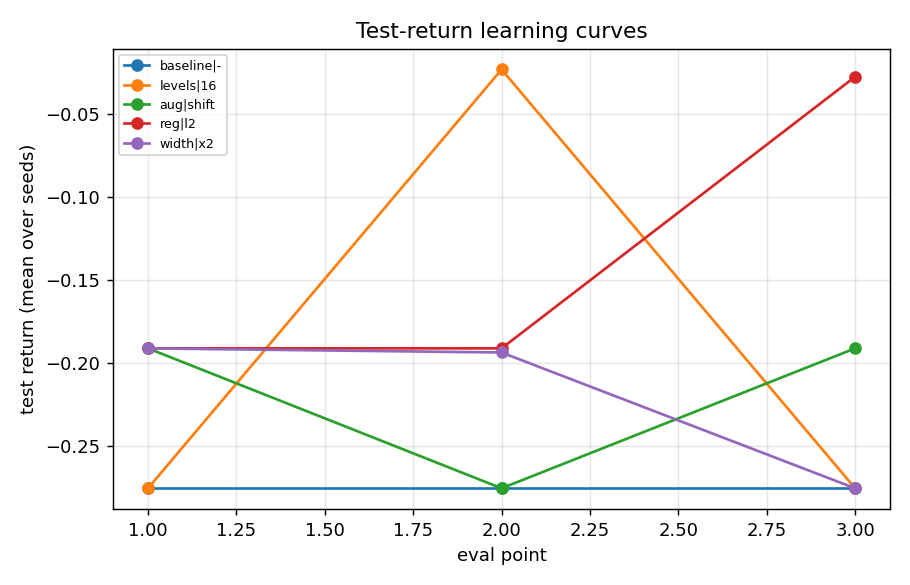
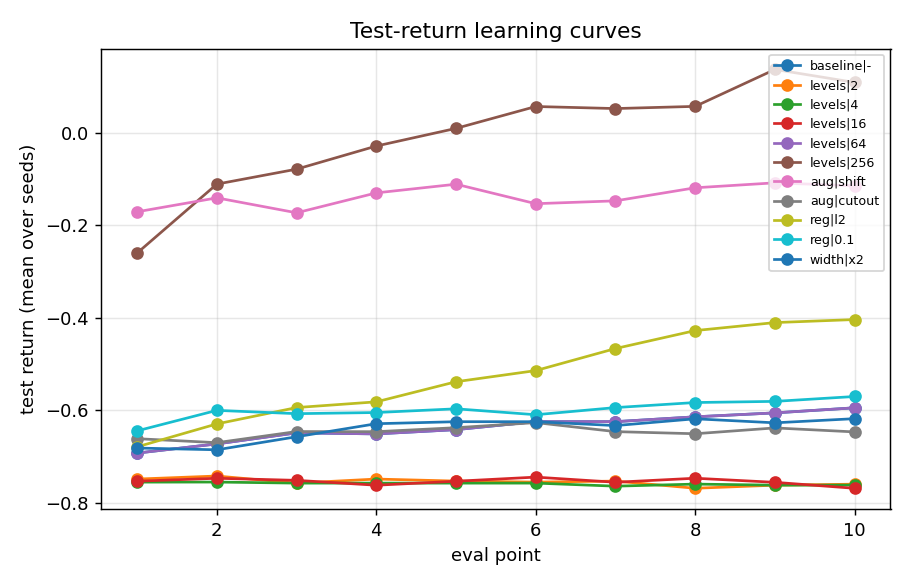
First run

diff --git a/results_rl/SUMMARY.md b/results_rl/SUMMARY.md
@@ -1,23 +1,35 @@
 # RL Generalization-Gap — Results Summary
 
-_Generated 2026-06-20 19:31 · SMOKE run · 2 seeds_
+_Generated 2026-06-20 21:52 · FULL run · 8 seeds_
 
 ## Test-return IQM (95% CI) and probability of improvement vs baseline
 
 | Condition | Test IQM | 95% CI | P(improve > base) |
 |---|---|---|---|
-| baseline|- | -0.360 | [-0.360, -0.360] | — |
-| levels|16 | -0.360 | [-0.360, -0.360] | 0.50 |
-| aug|shift | -0.360 | [-0.360, -0.360] | 0.53 |
-| reg|l2 | -0.360 | [-0.360, -0.360] | 0.59 |
-| width|x2 | -0.360 | [-0.360, -0.360] | 0.50 |
+| baseline|- | -0.800 | [-0.800, -0.800] | — |
+| levels|2 | -0.800 | [-0.800, -0.800] | 0.45 |
+| levels|4 | -0.800 | [-0.800, -0.800] | 0.45 |
+| levels|16 | -0.800 | [-0.800, -0.800] | 0.45 |
+| levels|64 | -0.800 | [-0.800, -0.800] | 0.50 |
+| levels|256 | +0.137 | [+0.055, +0.223] | 0.70 |
+| aug|shift | -0.309 | [-0.425, -0.198] | 0.64 |
+| aug|cutout | -0.800 | [-0.800, -0.800] | 0.49 |
+| reg|l2 | -0.800 | [-0.800, -0.796] | 0.55 |
+| reg|0.1 | -0.800 | [-0.800, -0.800] | 0.51 |
+| width|x2 | -0.800 | [-0.800, -0.800] | 0.49 |
 
 ## Mean train / test / gap
 
 | Condition | Setting | Train | Test | Gap |
 |---|---|---|---|---|
-| aug | shift | -0.030 | -0.191 | +0.161 |
-| baseline | - | +0.788 | -0.276 | +1.063 |
-| levels | 16 | +0.385 | -0.276 | +0.661 |
-| reg | l2 | +0.624 | -0.027 | +0.651 |
-| width | x2 | +0.786 | -0.276 | +1.062 |
+| aug | cutout | +0.886 | -0.647 | +1.533 |
+| aug | shift | +0.903 | -0.114 | +1.018 |
+| baseline | - | +0.896 | -0.595 | +1.491 |
+| levels | 16 | +0.895 | -0.769 | +1.664 |
+| levels | 2 | +0.830 | -0.760 | +1.590 |
+| levels | 256 | +0.903 | +0.109 | +0.794 |
+| levels | 4 | +0.870 | -0.762 | +1.632 |
+| levels | 64 | +0.896 | -0.595 | +1.491 |
+| reg | 0.1 | +0.886 | -0.570 | +1.456 |
+| reg | l2 | +0.896 | -0.404 | +1.300 |
+| width | x2 | +0.903 | -0.618 | +1.521 |